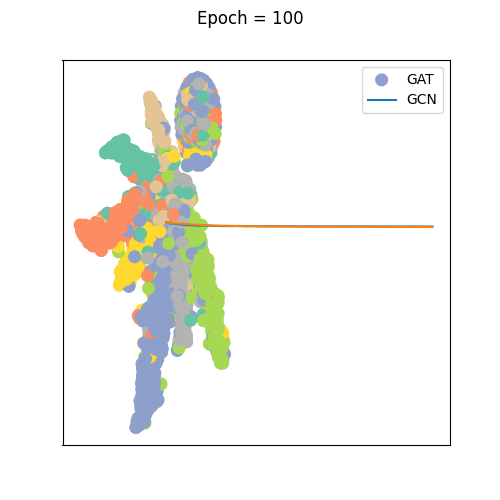
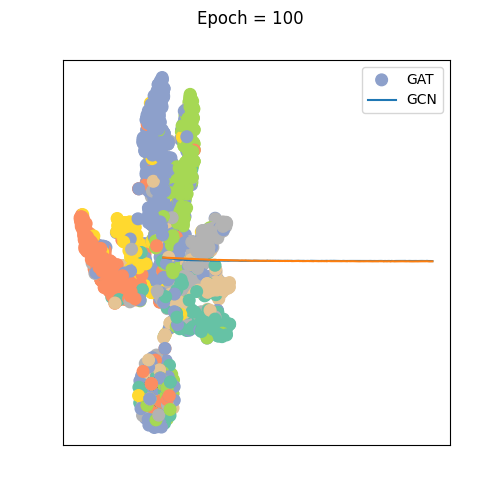
changed .gitignore

Changed region(s): [[0.15, 0.12, 0.87, 0.87]]

diff --git a/PyG-Neo4j/model_GCN.py b/PyG-Neo4j/model_GCN.py
@@ -24,7 +24,7 @@ class GCN(torch.nn.Module):
 
 
 def train_gcn(train_data):
-    epochs = 200
+    epochs = 1000
     device = torch.device('cuda' if torch.cuda.is_available() else 'cpu')
     model = GCN(train_data).to(device)
 

diff --git a/PyG-Neo4j/model_GAT.py b/PyG-Neo4j/model_GAT.py
@@ -33,7 +33,7 @@ class GAT(torch.nn.Module):
 
 
 def train_gnn(train_data):
-    epochs = 200
+    epochs = 1000
     device = torch.device('cuda' if torch.cuda.is_available() else 'cpu')
     device = "cpu"
 
